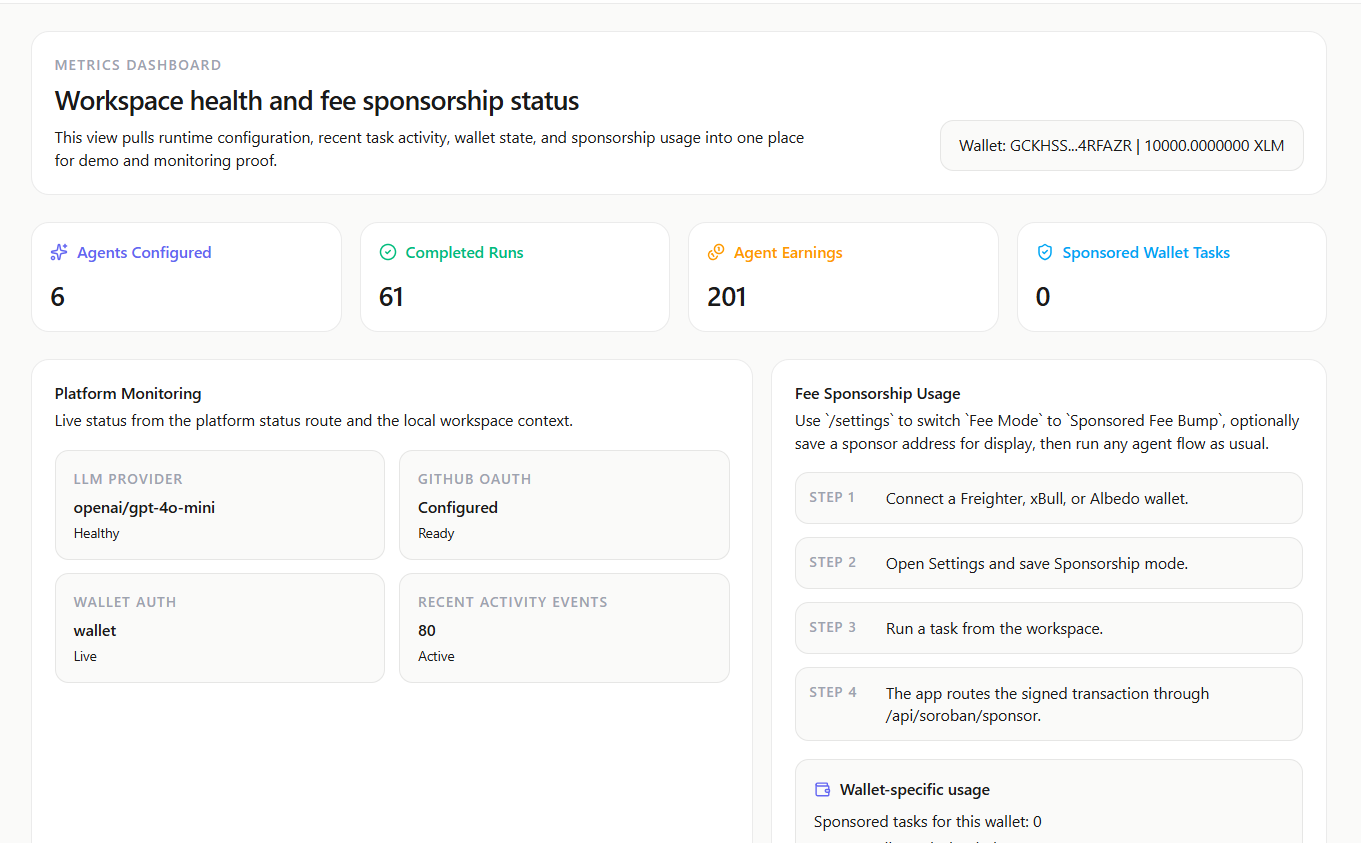
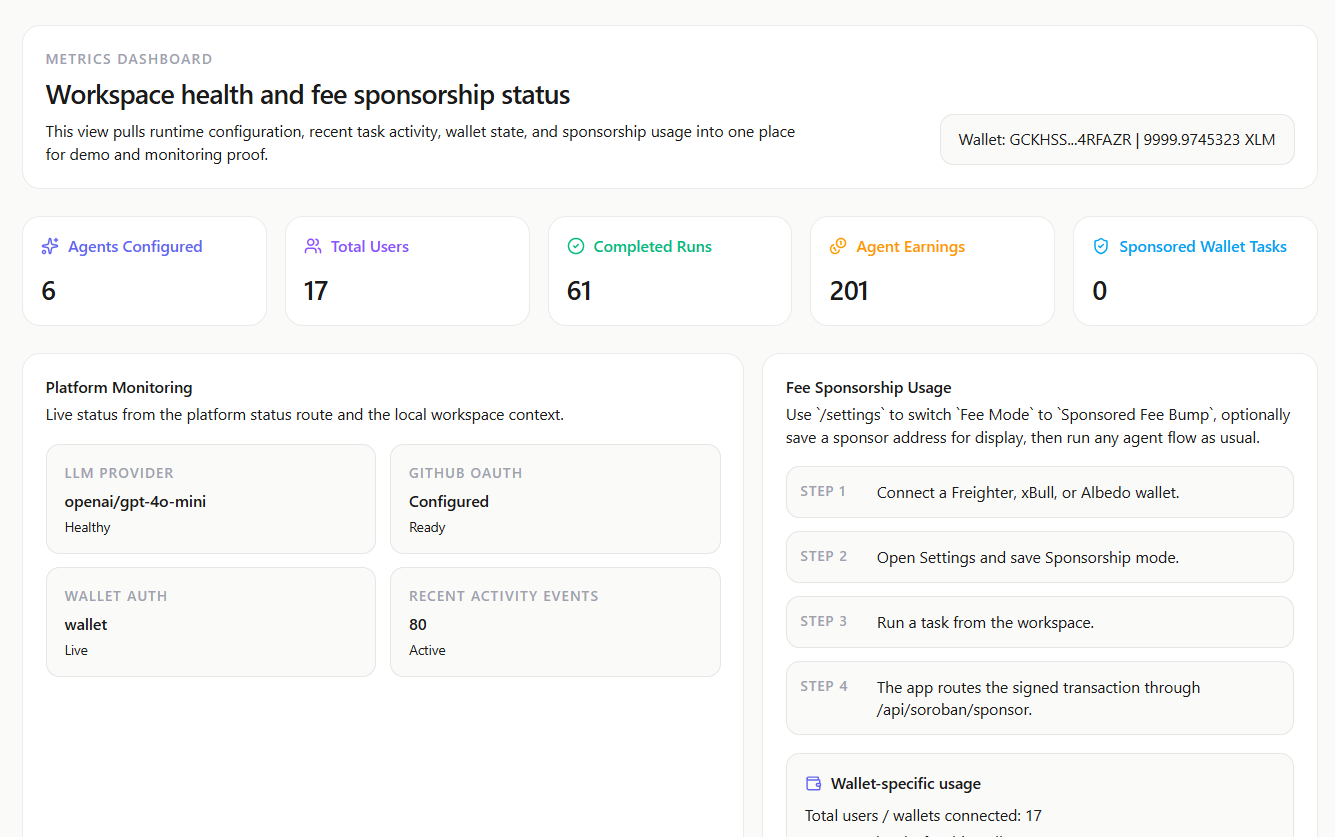
fixed stuff

diff --git a/app/dashboard/page.tsx b/app/dashboard/page.tsx
@@ -1,7 +1,7 @@
 "use client"
 
 import { useEffect, useMemo, useState } from "react"
-import { Activity, CheckCircle2, Coins, Loader2, ShieldCheck, Sparkles, Wallet } from "lucide-react"
+import { Activity, CheckCircle2, Coins, Loader2, ShieldCheck, Sparkles, Users, Wallet } from "lucide-react"
 import { useAgentContext } from "@/lib/AgentContext"
 import { useWalletContext } from "@/lib/WalletContext"
 import type { TaskRecord } from "@/types/tasks"
@@ -29,6 +29,7 @@ export default function DashboardPage() {
     const [platformStatus, setPlatformStatus] = useState<PlatformStatus | null>(null)
     const [recentTasks, setRecentTasks] = useState<TaskRecord[]>([])
     const [walletTasks, setWalletTasks] = useState<TaskRecord[]>([])
+    const [userCount, setUserCount] = useState(0)
     const [loading, setLoading] = useState(true)
 
     useEffect(() => {
@@ -39,13 +40,15 @@ export default function DashboardPage() {
             try {
                 const platformPromise = fetch("/api/platform-status", { cache: "no-store" }).then((response) => response.json())
                 const recentTasksPromise = fetch("/api/tasks?limit=8", { cache: "no-store" }).then((response) => response.json())
+                const userCountPromise = fetch("/api/users", { cache: "no-store" }).then((response) => response.json())
                 const walletTasksPromise = walletAddress
                     ? fetch(`/api/tasks?walletAddress=${encodeURIComponent(walletAddress)}&limit=8`, { cache: "no-store" }).then((response) => response.json())
                     : Promise.resolve({ tasks: [] })
 
-                const [platformPayload, recentPayload, walletPayload] = await Promise.all([
+                const [platformPayload, recentPayload, userPayload, walletPayload] = await Promise.all([
                     platformPromise,
                     recentTasksPromise,
+                    userCountPromise,
                     walletTasksPromise,
                 ])
 
@@ -53,12 +56,14 @@ export default function DashboardPage() {
 
                 setPlatformStatus(platformPayload)
                 setRecentTasks(Array.isArray(recentPayload.tasks) ? recentPayload.tasks : [])
+                setUserCount(typeof userPayload.count === "number" ? userPayload.count : 0)
                 setWalletTasks(Array.isArray(walletPayload.tasks) ? walletPayload.tasks : [])
             } catch (error) {
                 console.error("[dashboard] Failed to load metrics", error)
                 if (!cancelled) {
                     setPlatformStatus(null)
                     setRecentTasks([])
+                    setUserCount(0)
                     setWalletTasks([])
                 }
             } finally {
@@ -103,12 +108,18 @@ export default function DashboardPage() {
                 </div>
             </section>
 
-            <section className="grid gap-4 md:grid-cols-2 xl:grid-cols-4">
+            <section className="grid gap-4 md:grid-cols-2 xl:grid-cols-5">
                 <MetricCard
                     icon={<Sparkles size={16} />}
                     label="Agents Configured"
                     value={agents.length.toString()}
                     tone="text-primary"
+                />
+                <MetricCard
+                    icon={<Users size={16} />}
+                    label="Total Users"
+                    value={userCount.toString()}
+                    tone="text-violet-500"
                 />
                 <MetricCard
                     icon={<CheckCircle2 size={16} />}
@@ -182,7 +193,8 @@ export default function DashboardPage() {
                             <Wallet size={15} className="text-primary" />
                             Wallet-specific usage
                         </div>
-                        <div className="mt-2">Sponsored tasks for this wallet: {walletAddress ? sponsoredWalletTasks : 0}</div>
+                        <div className="mt-2">Total users / wallets connected: {userCount}</div>
+                        <div className="mt-1">Sponsored tasks for this wallet: {walletAddress ? sponsoredWalletTasks : 0}</div>
                         <div className="mt-1">Recent wallet tasks loaded: {walletAddress ? walletTasks.length : 0}</div>
                     </div>
                 </div>

diff --git a/app/api/users/route.ts b/app/api/users/route.ts
@@ -1,6 +1,19 @@
 import { NextResponse } from "next/server"
 import { AgentExecutionError } from "@/lib/agents/shared"
-import { upsertUserByWallet } from "@/lib/services/userService"
+import { getUserCount, upsertUserByWallet } from "@/lib/services/userService"
+
+export async function GET() {
+    try {
+        const count = await getUserCount()
+        return NextResponse.json({ success: true, count })
+    } catch (error: unknown) {
+        if (error instanceof AgentExecutionError) {
+            return NextResponse.json({ error: error.message, code: error.code, details: error.details }, { status: error.status })
+        }
+
+        return NextResponse.json({ error: error instanceof Error ? error.message : "Failed to fetch users" }, { status: 500 })
+    }
+}
 
 export async function POST(req: Request) {
     try {

diff --git a/lib/services/userService.ts b/lib/services/userService.ts
@@ -101,3 +101,22 @@ export async function setGitHubConnected(walletAddressInput: unknown, githubConn
 
     return data
 }
+
+export async function getUserCount() {
+    const supabase = getSupabaseServerClient()
+
+    const { count, error } = await supabase
+        .from("users")
+        .select("*", { count: "exact", head: true })
+
+    if (error) {
+        if (isMissingUsersTableError(error)) {
+            warnAboutMissingUsersTable()
+            return 0
+        }
+
+        throw new AgentExecutionError("DB_USER_COUNT_FAILED", normalizeError(error, "Failed to fetch user count."), 500)
+    }
+
+    return count ?? 0
+}

diff --git a/app/globals.css b/app/globals.css
@@ -66,10 +66,17 @@
 
   html {
     color-scheme: light;
+    font-size: 15px;
   }
 
   html.dark {
     color-scheme: dark;
+  }
+
+  @media (max-width: 767px) {
+    html {
+      font-size: 14px;
+    }
   }
 
   body {

diff --git a/README.md b/README.md
@@ -69,6 +69,7 @@ Check any address on Stellar Explorer:
 - Screenshot:
 
 ![Monitoring Dashboard](./Screenshots/monitordash.png)
+![Agents Visible](./Screenshots/agents.png.png)
 
 ### Security Checklist
 
